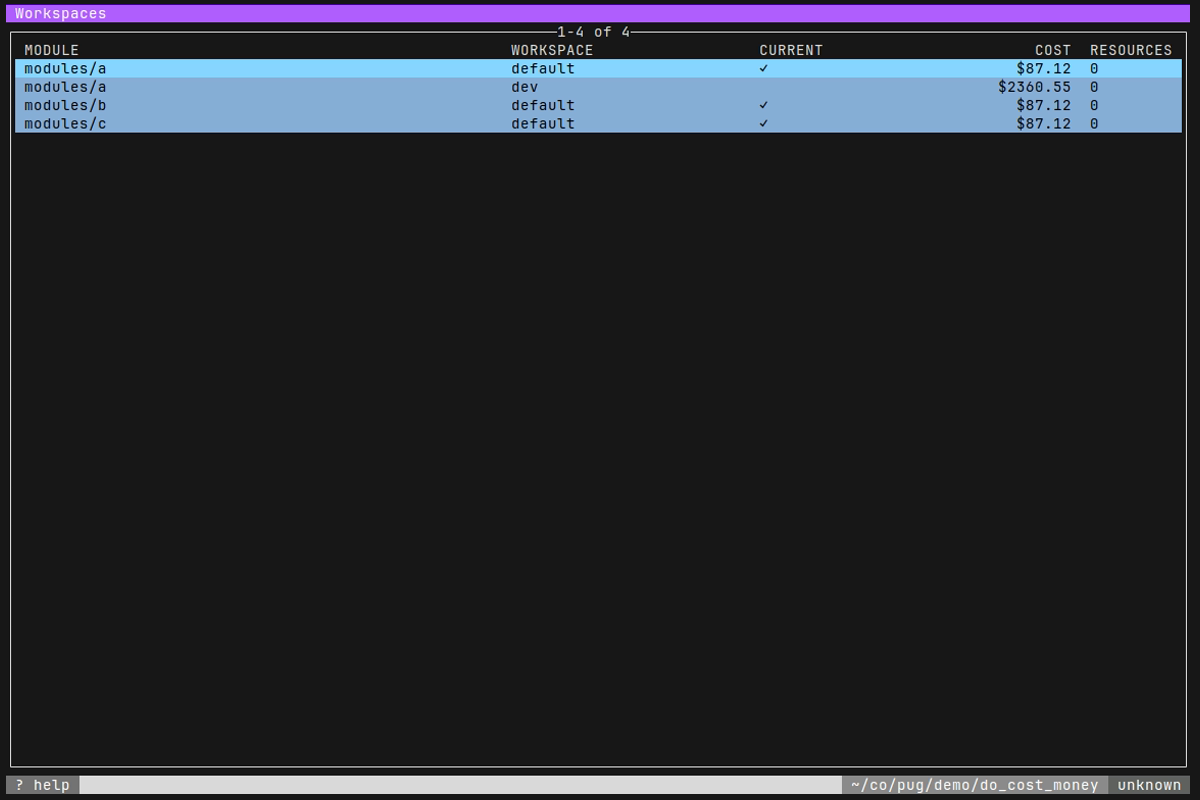
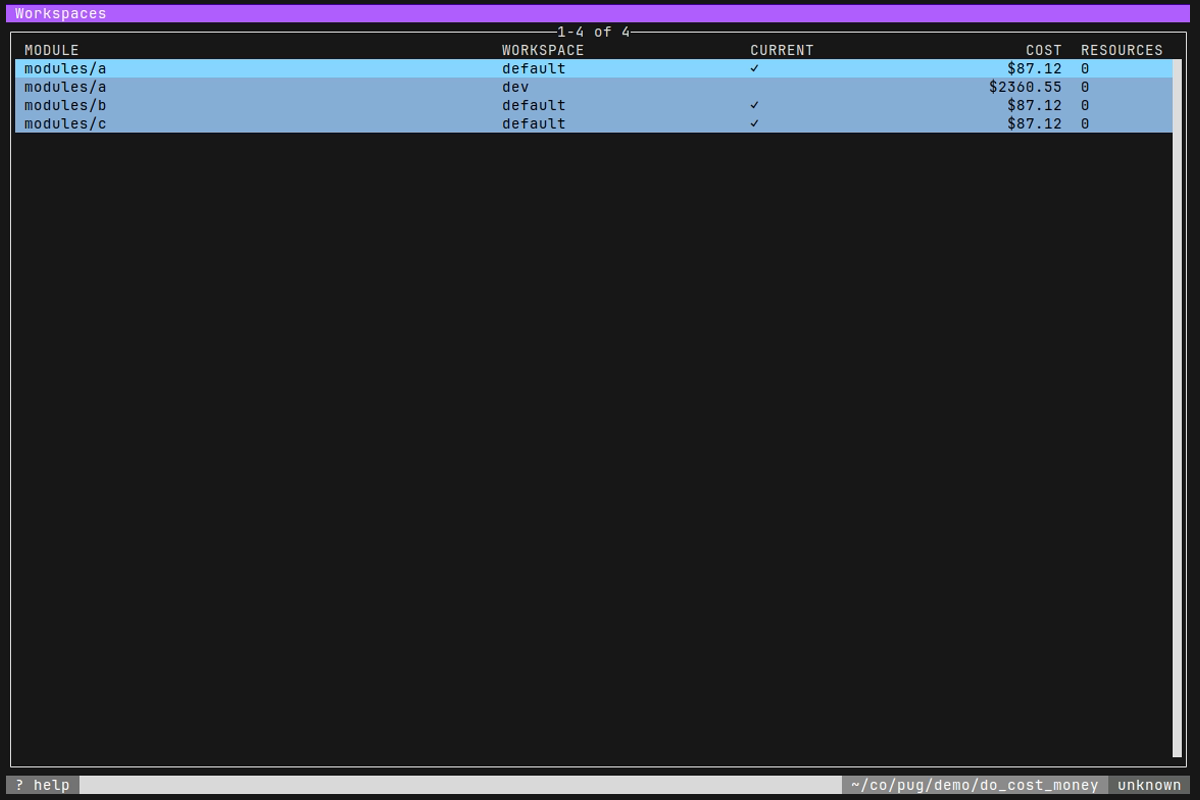
feat: scrollbars (#130)

diff --git a/internal/tui/table/table.go b/internal/tui/table/table.go
@@ -56,8 +56,9 @@ type Model[V resource.Resource] struct {
 	// index of first visible row
 	start int
 
-	// dimensions calcs
-	width  int
+	// width of table without borders
+	width int
+	// height of table without borders
 	height int
 }
 
@@ -146,18 +147,18 @@ func (m *Model[V]) filterVisible() bool {
 
 // setDimensions sets the dimensions of the table.
 func (m *Model[V]) setDimensions(width, height int) {
-	m.height = height
-	m.width = width
+	// Adjust height to accomodate borders
+	m.height = height - 2
+	// Adjust width to accomodate borders
+	m.width = width - 2
 	m.setColumnWidths()
 
 	m.setStart()
 }
 
-// maxVisibleRows returns the maximum number of visible rows, i.e. the height of
-// the terminal allocated to rows.
-func (m *Model[V]) maxVisibleRows() int {
-	// Subtract two from height to accommodate borders
-	height := max(0, m.height-headerHeight-2)
+// rowAreaHeight returns the height of the terminal allocated to rows.
+func (m Model[V]) rowAreaHeight() int {
+	height := max(0, m.height-headerHeight)
 
 	if m.filterVisible() {
 		// Accommodate height of filter widget
@@ -169,19 +170,7 @@ func (m *Model[V]) maxVisibleRows() int {
 // visibleRows returns the number of renderable visible rows.
 func (m Model[V]) visibleRows() int {
 	// The number of visible rows cannot exceed the row area height.
-	return min(m.maxVisibleRows(), len(m.rows)-m.start)
-}
-
-// tableWidth retrieves the width available to the table, excluding its borders.
-func (m *Model[V]) tableWidth() int {
-	// Subtract two from width to accommodate borders
-	return m.width - 2
-}
-
-// tableHeight retrieves the height available to the table, excluding its borders.
-func (m *Model[V]) tableHeight() int {
-	// Subtract two from width to accommodate borders
-	return m.height - 2
+	return min(m.rowAreaHeight(), len(m.rows)-m.start)
 }
 
 // Update is the Bubble Tea update loop.
@@ -198,13 +187,13 @@ func (m Model[V]) Update(msg tea.Msg) (Model[V], tea.Cmd) {
 		case key.Matches(msg, keys.Navigation.LineDown):
 			m.MoveDown(1)
 		case key.Matches(msg, keys.Navigation.PageUp):
-			m.MoveUp(m.maxVisibleRows())
+			m.MoveUp(m.rowAreaHeight())
 		case key.Matches(msg, keys.Navigation.PageDown):
-			m.MoveDown(m.maxVisibleRows())
+			m.MoveDown(m.rowAreaHeight())
 		case key.Matches(msg, keys.Navigation.HalfPageUp):
-			m.MoveUp(m.maxVisibleRows() / 2)
+			m.MoveUp(m.rowAreaHeight() / 2)
 		case key.Matches(msg, keys.Navigation.HalfPageDown):
-			m.MoveDown(m.maxVisibleRows() / 2)
+			m.MoveDown(m.rowAreaHeight() / 2)
 		case key.Matches(msg, keys.Navigation.GotoTop):
 			m.GotoTop()
 		case key.Matches(msg, keys.Navigation.GotoBottom):
@@ -286,20 +275,29 @@ func (m Model[V]) View() string {
 	// Table is composed of a vertical stack of components:
 	// (a) optional filter widget
 	// (b) header
-	// (c) rows
+	// (c) rows + scrollbar
 	components := make([]string, 0, 1+1+m.visibleRows())
 	if m.filterVisible() {
 		components = append(components, tui.Regular.Margin(0, 1).Render(m.filter.View()))
 		// Add horizontal rule between filter widget and table
-		components = append(components, strings.Repeat("─", m.tableWidth()))
+		components = append(components, strings.Repeat("─", m.width))
 	}
 	components = append(components, m.headersView())
+	// Generate scrollbar
+	scrollbar := tui.Scrollbar(m.rowAreaHeight(), len(m.rows), m.visibleRows(), m.start)
+	// Get all the visible rows
+	var rows []string
 	for i := range m.visibleRows() {
-		components = append(components, m.renderRow(m.start+i))
+		rows = append(rows, m.renderRow(m.start+i))
 	}
+	rowarea := lipgloss.NewStyle().Width(m.width - tui.ScrollbarWidth).Render(
+		strings.Join(rows, "\n"),
+	)
+	// Put rows alongside the scrollbar to the right.
+	components = append(components, lipgloss.JoinHorizontal(lipgloss.Top, rowarea, scrollbar))
 	// Render table components, ensuring it is at least a min height
 	content := lipgloss.NewStyle().
-		Height(m.tableHeight()).
+		Height(m.height).
 		Render(lipgloss.JoinVertical(lipgloss.Top, components...))
 	// Render table metadata
 	var metadata string
@@ -318,7 +316,7 @@ func (m Model[V]) View() string {
 	var topBorder string
 	{
 		// total length of top border runes, not including corners
-		length := max(0, m.width-lipgloss.Width(metadata)-2)
+		length := max(0, m.width-lipgloss.Width(metadata))
 		leftLength := length / 2
 		rightLength := max(0, length-leftLength)
 		topBorder = lipgloss.JoinHorizontal(lipgloss.Left,
@@ -590,12 +588,12 @@ func (m *Model[V]) moveCurrentRow(n int) {
 func (m *Model[V]) setStart() {
 	// Start index must be at least the current row index minus the max number
 	// of visible rows.
-	minimum := max(0, m.currentRowIndex-m.maxVisibleRows()+1)
+	minimum := max(0, m.currentRowIndex-m.rowAreaHeight()+1)
 	// Start index must be at most the lesser of:
 	// (a) the current row index, or
 	// (b) the number of rows minus the maximum number of visible rows (as many
 	// rows as possible are rendered)
-	maximum := max(0, min(m.currentRowIndex, len(m.rows)-m.maxVisibleRows()))
+	maximum := max(0, min(m.currentRowIndex, len(m.rows)-m.rowAreaHeight()))
 	m.start = clamp(m.start, minimum, maximum)
 }
 
@@ -673,7 +671,7 @@ func (m *Model[V]) renderRow(rowIdx int) string {
 	// Join cells together to form a row
 	renderedRow := lipgloss.JoinHorizontal(lipgloss.Left, styledCells...)
 
-	// If current row or seleted rows, strip colors and apply background color
+	// If current row or selected rows, strip colors and apply background color
 	if current || selected {
 		renderedRow = internal.StripAnsi(renderedRow)
 		renderedRow = lipgloss.NewStyle().

diff --git a/internal/tui/viewport.go b/internal/tui/viewport.go
@@ -71,26 +71,11 @@ func (m Viewport) Update(msg tea.Msg) (Viewport, tea.Cmd) {
 	return m, tea.Batch(cmds...)
 }
 
-// percentWidth is the width of the scroll percentage section to the
-// right of the viewport
-const percentWidth = 6 // 6 = 4 for xxx% + 2 for padding
-
 func (m Viewport) View() string {
-	// scroll percent container occupies a fixed width section to the right of
-	// the viewport.
-	percent := Regular.
-		Background(ScrollPercentageBackground).
-		Padding(0, 1).
-		Render(fmt.Sprintf("%3.f%%", m.viewport.ScrollPercent()*100))
-	percentContainer := Regular.
-		Height(m.viewport.Height).
-		Width(percentWidth).
-		AlignVertical(lipgloss.Bottom).
-		Render(percent)
-
 	var output string
 	if len(m.content) == 0 {
 		msg := "Awaiting output"
+		// TODO: make spinner non-optional
 		if m.spinner != nil {
 			msg += " " + m.spinner.View()
 		}
@@ -101,16 +86,18 @@ func (m Viewport) View() string {
 	} else {
 		output = m.viewport.View()
 	}
-
-	return lipgloss.JoinHorizontal(lipgloss.Top,
-		output,
-		percentContainer,
+	scrollbar := Scrollbar(
+		m.viewport.Height,
+		m.viewport.TotalLineCount(),
+		m.viewport.VisibleLineCount(),
+		m.viewport.YOffset,
 	)
+	return lipgloss.JoinHorizontal(lipgloss.Top, output, scrollbar)
 }
 
 func (m *Viewport) SetDimensions(width, height int) {
-	width = max(0, width-percentWidth)
-	// If width has changed, re-rewrap existing content.
+	width = max(0, width-ScrollbarWidth)
+	// If width has changed, re-wrap existing content.
 	rewrap := m.viewport.Width != width
 	m.viewport.Width = width
 	m.viewport.Height = height

diff --git a/internal/tui/scrollbar.go b/internal/tui/scrollbar.go
@@ -1,0 +1,26 @@
+package tui
+
+import (
+	"math"
+	"strings"
+)
+
+const (
+	ScrollbarWidth = 1
+
+	scrollbarThumb = "█"
+	scrollbarTrack = "░"
+)
+
+func Scrollbar(height, total, visible, offset int) string {
+	ratio := float64(height) / float64(total)
+	thumbHeight := max(1, int(math.Round(float64(visible)*ratio)))
+	thumbOffset := max(0, min(height-thumbHeight, int(math.Round(float64(offset)*ratio))))
+
+	return strings.TrimRight(
+		strings.Repeat(scrollbarTrack+"\n", thumbOffset)+
+			strings.Repeat(scrollbarThumb+"\n", thumbHeight)+
+			strings.Repeat(scrollbarTrack+"\n", max(0, height-thumbOffset-thumbHeight)),
+		"\n",
+	)
+}

diff --git a/internal/tui/table/dimensions.go b/internal/tui/table/dimensions.go
@@ -6,14 +6,16 @@
 
 package table
 
+import "github.com/leg100/pug/internal/tui"
+
 // Update column widths in-place.
 //
 // TODO: unit test
 func (m *Model[V]) setColumnWidths() {
 	var (
-		// total available flex width initialized to total viewport width minus
-		// the padding on each col (2)
-		totalFlexWidth  = m.tableWidth() - 2*len(m.cols)
+		// total available flex width initialized to total table width minus the
+		// padding on each col (2) and the scrollbar to the right
+		totalFlexWidth  = m.width - tui.ScrollbarWidth - 2*len(m.cols)
 		totalFlexFactor int
 		flexGCD         int
 	)
